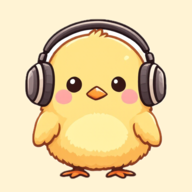
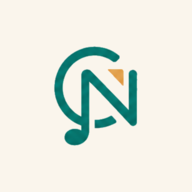
feat(brand): 새 ContiNote 로고 적용 (병아리 → C+N+음표 심볼)
- public/logo-mark.png(심볼 단독)·logo-full.png(심볼+워드마크) 추가 — 원본 PNG에서 ImageMagick으로 크롭+배경 투명화
- BrandMark(헤더·모바일 공용)·IntroScreen BrandMarkInline → 병아리(/mascot/idle.png) 대신 logo-mark, 크림 칩+하어라인
- favicon.ico·icon-192·icon-512·apple-touch-icon 재생성(심볼을 크림 정사각에) → Apple·Android 웹앱 아이콘 동시 교체
- icon.svg는 metadata에서 참조 안 함(무시)

diff --git a/components/BrandMark.tsx b/components/BrandMark.tsx
@@ -1,4 +1,5 @@
-// 콘티노트 브랜드 마크 — 실제 병아리 캐릭터 이미지를 사용.
+// 콘티노트 브랜드 마크 — C+N+음표 로고 심볼 (헤더·모바일 공용).
+// 로고는 투명 PNG라 크림 칩 위에 얹어 어느 테마에서도 또렷하게 보이게 한다.
 
 export default function BrandMark({ size = 34 }: { size?: number }) {
   return (
@@ -6,8 +7,9 @@ export default function BrandMark({ size = 34 }: { size?: number }) {
       style={{
         width: size,
         height: size,
-        borderRadius: Math.max(8, Math.round(size * 0.24)),
-        background: '#FFF3D4',
+        borderRadius: Math.max(8, Math.round(size * 0.26)),
+        background: '#FCF8EF', // 로고 원본과 같은 크림 → 투명 심볼이 자연스럽게 얹힌다
+        border: '1px solid rgba(0,0,0,0.06)',
         display: 'inline-flex',
         alignItems: 'center',
         justifyContent: 'center',
@@ -18,17 +20,9 @@ export default function BrandMark({ size = 34 }: { size?: number }) {
       aria-hidden="true"
     >
       <img
-        src="/mascot/idle.png"
+        src="/logo-mark.png"
         alt=""
-        width={Math.round(size * 1.12)}
-        height={Math.round(size * 1.12)}
-        style={{
-          display: 'block',
-          width: '112%',
-          height: '112%',
-          objectFit: 'contain',
-          transform: 'translateY(2%)',
-        }}
+        style={{ display: 'block', width: '74%', height: '74%', objectFit: 'contain' }}
       />
     </span>
   );

diff --git a/components/IntroScreen.tsx b/components/IntroScreen.tsx
@@ -189,15 +189,16 @@ function HeadlineLine2() {
   );
 }
 
-// 브랜드 마크 — 실제 병아리 캐릭터 이미지 사용
+// 브랜드 마크 — C+N+음표 로고 심볼 (병아리에서 교체)
 function BrandMarkInline({ size = 36 }: { size?: number }) {
   return (
     <span
       style={{
         width: size,
         height: size,
-        borderRadius: Math.max(9, Math.round(size * 0.24)),
-        background: '#FFF3D4',
+        borderRadius: Math.max(9, Math.round(size * 0.26)),
+        background: '#FCF8EF', // 로고 원본과 같은 크림 → 투명 심볼이 자연스럽게 얹힌다
+        border: '1px solid rgba(0,0,0,0.06)',
         display: 'inline-flex',
         alignItems: 'center',
         justifyContent: 'center',
@@ -207,16 +208,13 @@ function BrandMarkInline({ size = 36 }: { size?: number }) {
       aria-hidden="true"
     >
       <img
-        src="/mascot/idle.png"
+        src="/logo-mark.png"
         alt=""
-        width={Math.round(size * 1.12)}
-        height={Math.round(size * 1.12)}
         style={{
           display: 'block',
-          width: '112%',
-          height: '112%',
+          width: '74%',
+          height: '74%',
           objectFit: 'contain',
-          transform: 'translateY(2%)',
         }}
       />
     </span>